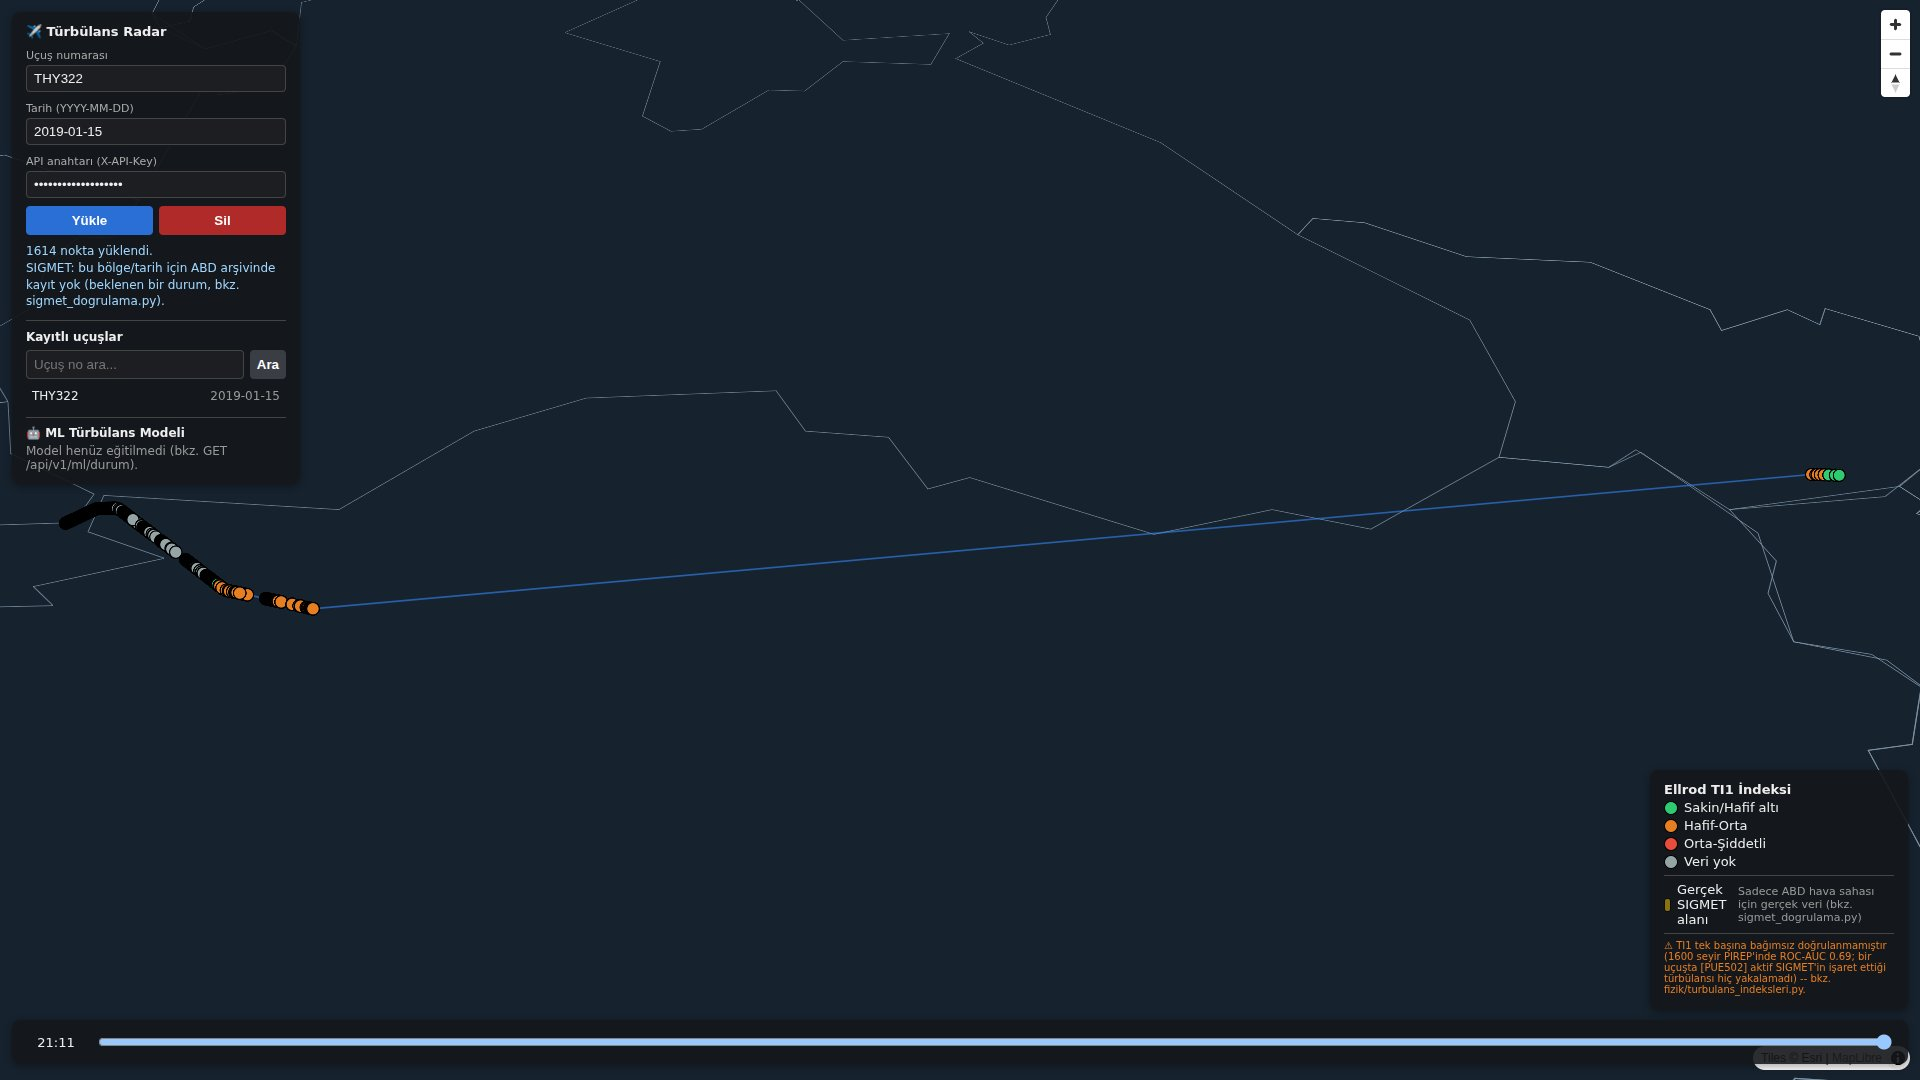
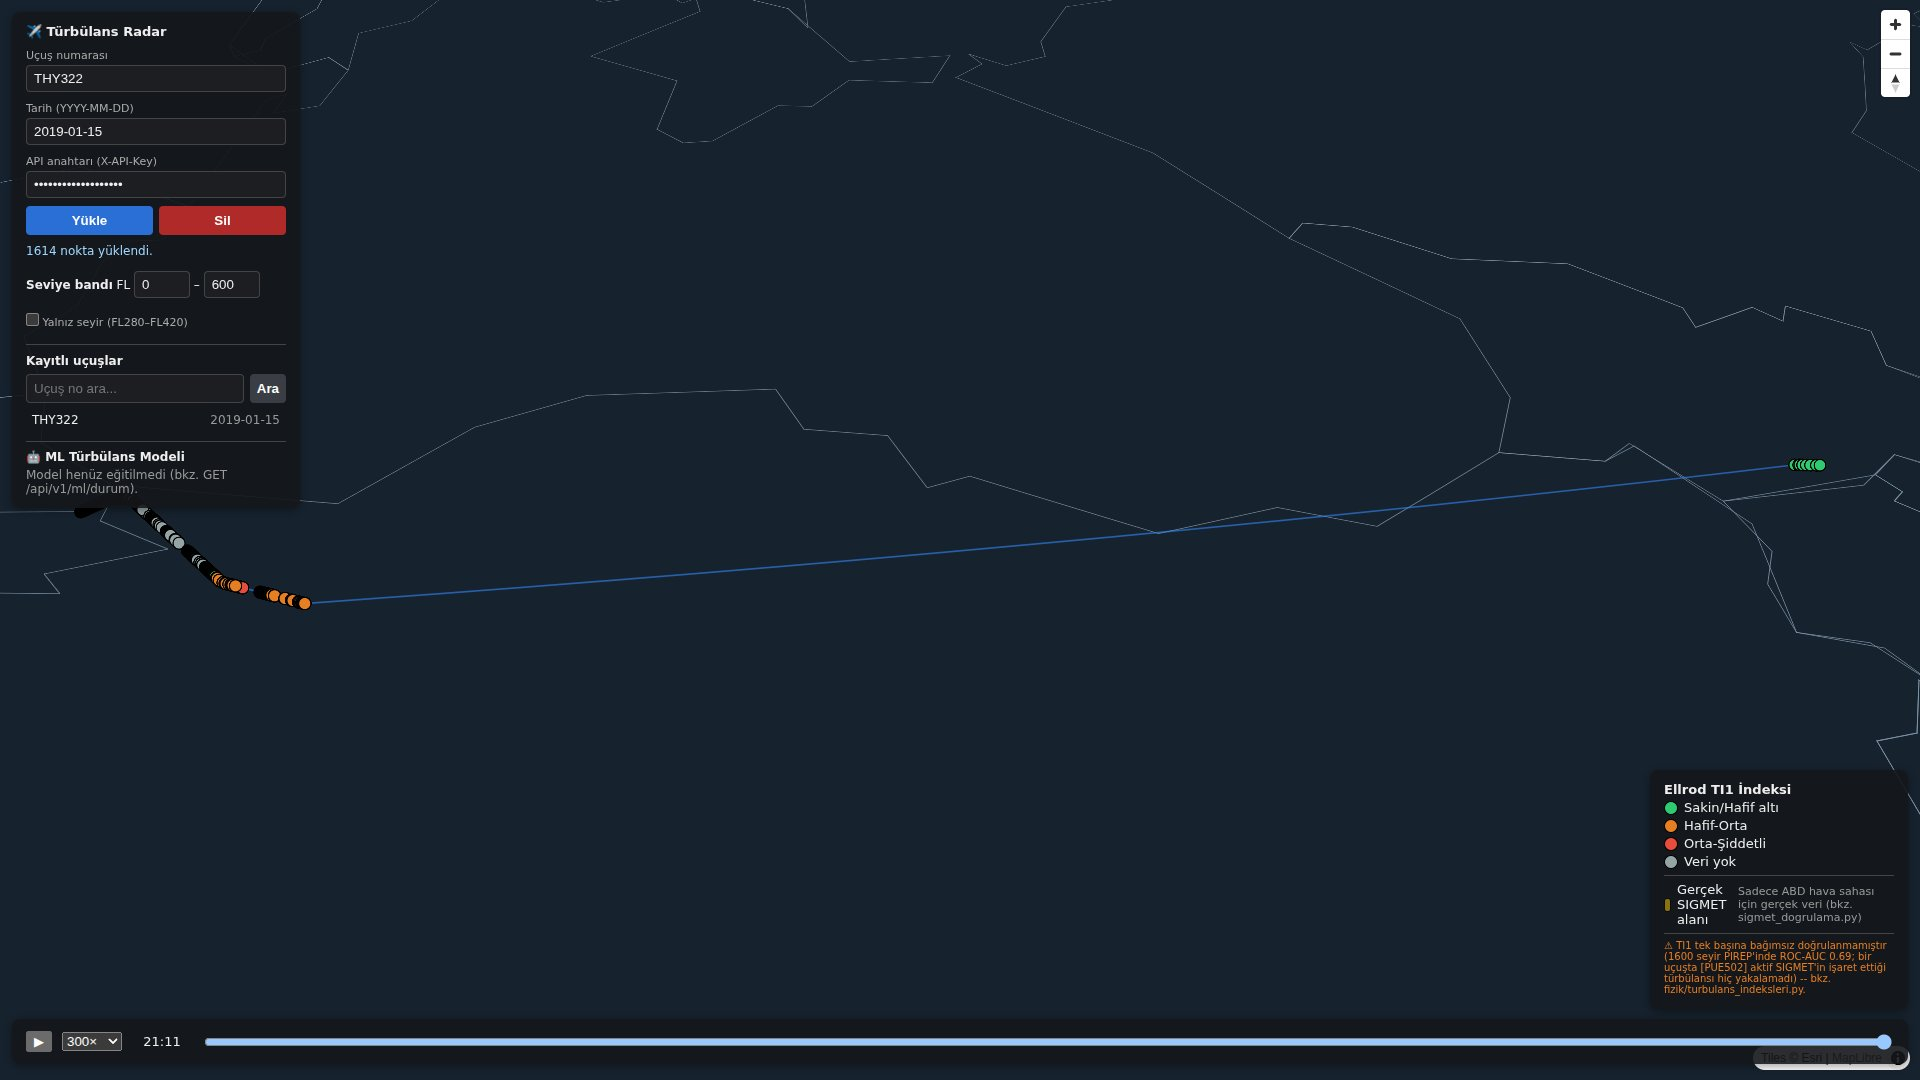
Madde 10: ağsız demo provası geçti; ekran görüntüleri ve demo/poster sayıları yeni fizikle güncel
- Kapsayıcılar DNS'siz, tarayıcıda localhost dışı istekler kesik: üç adım tamam, yalnız Esri karoları kesildi
- Yanal sapma açıklaması NM (km ikincil)
- İşlem günlüğü 2026-10-05

diff --git a/docs/sunum/poster.html b/docs/sunum/poster.html
@@ -117,7 +117,7 @@ footer { border-top: 3px solid var(--murekkep); padding-top: 12px; font-size: 12
 
     <figure class="genis">
       <img src="ekranlar/02_simulasyon_turbulanstan_kacinma.jpg" alt="Rota simülasyonu: büyük daire ve türbülanstan kaçınan optimize rota, sonuç tablosu">
-      <figcaption><b>İstanbul → Doğu Anadolu, FL360, 15.01.2019 20:00 UTC (ERA5).</b> Büyük daire rotasında 4 riskli TI1 noktası; A* 53 km yanal sapmayla hepsinden kaçındı. Bedel: +1,6 dk, +%2,0 yakıt. Ekran ağsız demo paketinden.</figcaption>
+      <figcaption><b>İstanbul → Doğu Anadolu, FL360, 15.01.2019 20:00 UTC (ERA5).</b> Büyük daire rotasında ~198 NM / 23 dk riskli bölüm (kırmızı); A* en çok 86 NM yanal sapmayla hepsinden kaçındı. Bedel: ~+6 dk, +%7,7 seyir yakıtı. Ekran ağsız demo paketinden.</figcaption>
     </figure>
 
     <section>

diff --git a/src/turbulans_radar/rota/rota_optimizasyonu.py b/src/turbulans_radar/rota/rota_optimizasyonu.py
@@ -1620,7 +1620,10 @@ def _bulgulari_olustur(
         strateji = _temel_strateji(en_iyi["strateji"])
         irtifa_farki_ft = (en_iyi["irtifa_m"] - irtifa_m) / 0.3048
         strateji_aciklamasi = {
-            "yanal": f"A* araması ile yanal sapma (en fazla {en_iyi['yanal_sapma_km']:.0f} km)",
+            "yanal": (
+                f"A* araması ile yanal sapma (en fazla {en_iyi['yanal_sapma_km'] / NM_KM:.0f} NM, "
+                f"{en_iyi['yanal_sapma_km']:.0f} km)"
+            ),
             "ats_alternatif": "ATS ağı üzerinde alternatif rota (A*)",
             "irtifa_yukari": f"irtifayı {irtifa_farki_ft:.0f} ft artırarak (tırmanma)",
             "irtifa_asagi": f"irtifayı {-irtifa_farki_ft:.0f} ft azaltarak (alçalma)",

diff --git a/docs/sunum/DEMO_SENARYOSU.md b/docs/sunum/DEMO_SENARYOSU.md
@@ -3,7 +3,7 @@
 Jüri sunumundaki canlı demo ve yedek video için adım adım akış. Demo, depodaki
 demo paketiyle (THY322, 15 Ocak 2019, gerçek OpenSky izi + ERA5 dilimi) **ağ
 bağlantısı ve kimlik bilgisi olmadan** çalışır. Aşağıdaki tüm sayılar bu paketle
-1 Ekim 2026'da alınmış gerçek çıktılardır; ekran görüntüleri `ekranlar/`
+5 Ekim 2026'da (çevreleyen katman fiziğiyle, ağsız provada) alınmış gerçek çıktılardır; ekran görüntüleri `ekranlar/`
 klasöründedir ve `turbulans-demo-ekranlari` ile yeniden üretilir.
 
 Sistem sertifikalı EDR üretmez; karar destek aracıdır. Demo boyunca bu cümle
@@ -32,11 +32,19 @@ en az bir kez söylenmelidir.
    ```
 
 4. Prova: aşağıdaki komut demo adımlarını tarayıcıda gerçekten tıklar ve ekran
-   görüntülerini üretir. Hata verirse sunumdan önce düzeltilecek bir şey vardır.
+   görüntülerini üretir. `--agsiz` localhost dışındaki her isteği keser ve denenen dış
+   adresleri listeler; listede yalnız `server.arcgisonline.com` (Esri karoları)
+   görünmelidir. Hata verirse sunumdan önce düzeltilecek bir şey vardır.
 
    ```bash
-   TURBULANS_API_ANAHTARI=demo-yerel-yonetici turbulans-demo-ekranlari --klasor /tmp/prova
+   TURBULANS_API_ANAHTARI=demo-yerel-yonetici turbulans-demo-ekranlari --agsiz --klasor /tmp/prova
    ```
+
+   Kapsayıcıların da ağa çıkmadığını sınamak için demo klonunda
+   `docker-compose.override.yml` ile `api`, `worker` ve `demo` servislerine
+   `dns: [127.0.0.1]` verin. 5 Ekim 2026 provası bu düzenle geçti: kapsayıcılar dış
+   adres çözemedi, tarayıcıda yalnız Esri karoları (~600 istek) kesildi, üç adım da
+   tamamlandı.
 
 5. Yedek videoyu kaydedin (bkz. §4) ve sunum bilgisayarına kopyalayın.
 
@@ -56,8 +64,8 @@ en az bir kez söylenmelidir.
 | 1 | 0:30 | Terminal | `docker compose ps` (db, api, worker sağlıklı); Wi-Fi kapalı | "Sistem dizüstünde, internet bağlantısı yok. Veri, depoyla gelen gerçek bir uçuş ve gerçek ERA5 dilimi." |
 | 2 | 1:30 | 3B harita | Uçuş `THY322`, tarih `2019-01-15`, **Yükle**. Zaman kaydırıcısını baştan sona sürükleyin | "OpenSky'dan alınmış 1614 gerçek ADS-B noktası. Her nokta, uçağın o anki barometrik irtifasına karşılık gelen basınç seviyesinde ERA5 rüzgarıyla eşleşti ve Ellrod TI1 hesaplandı. Tırmanışın alt kısmı 150–350 hPa dışında kaldığı için 1614 noktanın 720'si hesaplandı, gerisi 'veri yok': sistem kapsamadığı yeri tahmin etmiyor. İzdeki ~1 saatlik boşlukta OpenSky'da kayıt yok; sistem bu boşluğu doldurmuyor." |
 | 3 | 0:30 | 3B harita, sol panel | Model paneli ve lejanttaki TI1 notunu gösterin | "TI1'in tek başına güvenilirliği kanıtlanmadı: seyir irtifasındaki 6218 PIREP'te ROC-AUC 0,67. Bu not ekranda her zaman duruyor." |
-| 4 | 1:30 | Rota simülasyonu | 41.0, 29.0 → 40.5, 43.5; 36000 ft; 15.01.2019 20:00; A320; **Simüle Et** | "Büyük daire rotasında 4 riskli TI1 noktası var. A* 53 km yanal sapmayla hepsinden kaçınıyor; bedeli 1,6 dakika ve %2 yakıt. Sistem tasarrufu değil güvenlik bedelini gösteriyor." (Ekran: `ekranlar/02_…`) |
-| 5 | 1:00 | Rota simülasyonu | 38.35, 38.31 → 36.34, 43.13 (Malatya → Musul); **Simüle Et** | "Bu kez sert kısıt: normal rota örnek kısıtlı sahaya 11 noktada giriyor, önerilen rota hiç girmiyor. Bu bölge ERA5 diliminin dışında; sistem rüzgarı hesaba katamadığını açıkça söylüyor. SIGMET de aynı sert kısıt mekanizmasıyla çalışıyor." (Ekran: `ekranlar/03_…`) |
+| 4 | 1:30 | Rota simülasyonu | 41.0, 29.0 → 40.5, 43.5; 36000 ft; 15.01.2019 20:00; A320; **Simüle Et** | "Büyük daire rotasında yaklaşık 198 NM, 23 dakikalık riskli bölüm var; kırmızı çizilen kısım. A* en çok 86 NM yanal sapmayla hepsinden kaçınıyor; bedeli yaklaşık 6 dakika ve %7,7 seyir yakıtı. Sistem tasarrufu değil güvenliğin bedelini gösteriyor; seçim dispeçerin." (Ekran: `ekranlar/02_…`) |
+| 5 | 1:00 | Rota simülasyonu | 38.35, 38.31 → 36.34, 43.13 (Malatya → Musul); **Simüle Et** | "Bu kez sert kısıt: normal rota örnek kısıtlı sahaya 11 noktada giriyor, önerilen rota hiç girmiyor (bedeli %6,2 seyir yakıtı). Bu bölge ERA5 diliminin dışında; ekranda türbülans riski '0' değil 'hesaplanmadı' yazıyor, çünkü veri yokken risk yok demek en tehlikeli hata olurdu. SIGMET de aynı sert kısıt mekanizmasıyla çalışıyor." (Ekran: `ekranlar/03_…`) |
 | 6 | 0:30 | Slayt | ML ve doğrulama sonuçları slaytına geçin | "Model sonuçlarını canlı değil, ölçülmüş haliyle gösteriyorum. Sistem sertifikalı EDR üretmez; karar destek aracıdır." |
 
 Demo paketinde olmayanlar, slaytla gösterilir:

diff --git a/docs/kullanilabilirlik/OTURUM_PAKETI.md b/docs/kullanilabilirlik/OTURUM_PAKETI.md
@@ -51,7 +51,7 @@ sonraki adıma geçilir.
 |---|---|---|---|
 | G1 | "THY322 uçuşunun 15 Ocak 2019 izini açın ve uçuşun türbülans riskinin en yüksek olduğu bölümü gösterin." | 3B harita | Uçuşu yükler, renk lejantını kullanarak doğru bölümü gösterir |
 | G2 | "Gri noktalar ne anlama geliyor? Sistem orada ne biliyor?" | 3B harita | "Veri yok / kapsam dışı" anlamını kendi sözleriyle söyler |
-| G3 | "41,0 / 29,0'dan 40,5 / 43,5'e, 36.000 ft, 15.01.2019 20:00 UTC, A320 için rota isteyin. Önerilen rota neden farklı ve bunun bedeli ne?" | Rota simülasyonu | Riskli 4 noktadan kaçınıldığını ve bedelin (+1,6 dk, +%2 yakıt) farkına varır |
+| G3 | "41,0 / 29,0'dan 40,5 / 43,5'e, 36.000 ft, 15.01.2019 20:00 UTC, A320 için rota isteyin. Önerilen rota neden farklı ve bunun bedeli ne?" | Rota simülasyonu | Riskli bölümden (~198 NM, 23 dk) kaçınıldığını ve bedelin (~+6 dk, +%7,7 seyir yakıtı) farkına varır |
 | G4 | "Malatya'dan (38,35 / 38,31) Musul'a (36,34 / 43,13) aynı ayarlarla rota isteyin. Bu sonuca ne kadar güvenirdiniz?" | Rota simülasyonu | Kısıtlı sahadan kaçınıldığını ve "rüzgar hesaba katılamadı / kapsam dışı" uyarısını fark eder |
 | G5 | "Ekranda gördüklerinize göre bu sistemin türbülans değerlerini gerçek bir uçuşta nasıl kullanırdınız?" | Her ikisi | Sertifikalı EDR olmadığını / karar destek amaçlı olduğunu ya da TI1 güvenilirlik notunu kendiliğinden anar |
 

diff --git a/docs/ISLEM_GUNLUGU.md b/docs/ISLEM_GUNLUGU.md
@@ -2,6 +2,18 @@
 
 Her oturumun kısa özeti, en yeni üstte. Telefondan (GitHub mobil) okunmak için kısa tutulur.
 
+## 2026-10-05 (dal `claude/fizik-cekirdegi`)
+
+- ✅ Madde 2 fizik: çevreleyen katman, 7 seviye, metrik terimler, hipsometrik; TI1 AUC 0,644 → 0,671.
+- ✅ Birleşik EDR (Sharman-Pearson): PIREP 0,684 vs TI1 0,671 (+0,013, p<0,001); holdout +0,012.
+- ✅ DB: 6220 PIREP + 12232 EDR özelliği yeni fizikle yazıldı (önce yedek); 1597 penceresiz kuyrukta.
+- ⚠ Docker imajı dal koduyla derlendi (gece işi yeni fizikle çalışır); PR birleşince fark kalmaz.
+- ✅ Yeni fizikli aday TI1'i geçti (0,730 vs 0,707) ama F1'de aktif modeli geçemedi; aktif model aynı.
+- ✅ Madde 6 dispeç: riskli bölüm UTC/FL/NM, "hesaplanmadı" ≠ 0, kabin önerisi, NM/h:mm/FL arayüz.
+- ✅ Madde 8: docs/rapor/SONUCLAR.md + güvenilirlik diyagramı; MADIS 4 gün (GA için 5 gerekli).
+- ✅ LOF: gerçek veride %68 tekrar → kuantizasyon titreşimi; sonuç değişmedi (ADR 0011).
+- ✅ Madde 9: literatür tam metin (21 künye doğrulandı), katkı farkları, sınırlamalar, dersler.
+
 ## 2026-10-04
 
 - ✅ Git kuralları: master'a doğrudan push yasak (.githooks/pre-push), iş claude/<konu> dalında, birleştirme PR ile.
